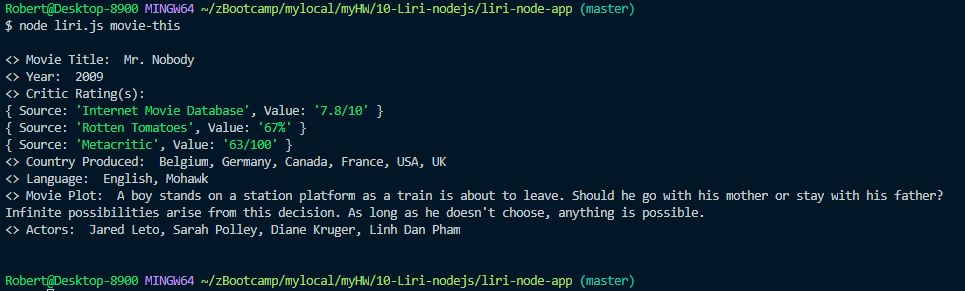
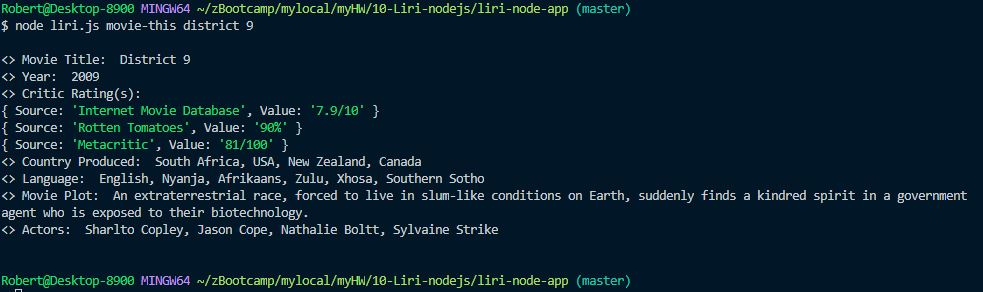
cleaned up console output for readability

Changed region(s): [[0.0, 0.1856, 0.9948, 0.8351], [0.0, 0.0, 0.6528, 0.1237], [0.0, 0.9278, 0.6528, 1.0]]

diff --git a/README.md b/README.md
@@ -80,7 +80,7 @@ Here is the movie-this example jpg
 
 example-
 
-node liri.js movie-this terminator
+node liri.js movie-this district 9
 
 
 ![node liri.js movie-this terminator](https://raw.githubusercontent.com/robertzuniga/liri-node-app/master/images/movie-this.JPG)
